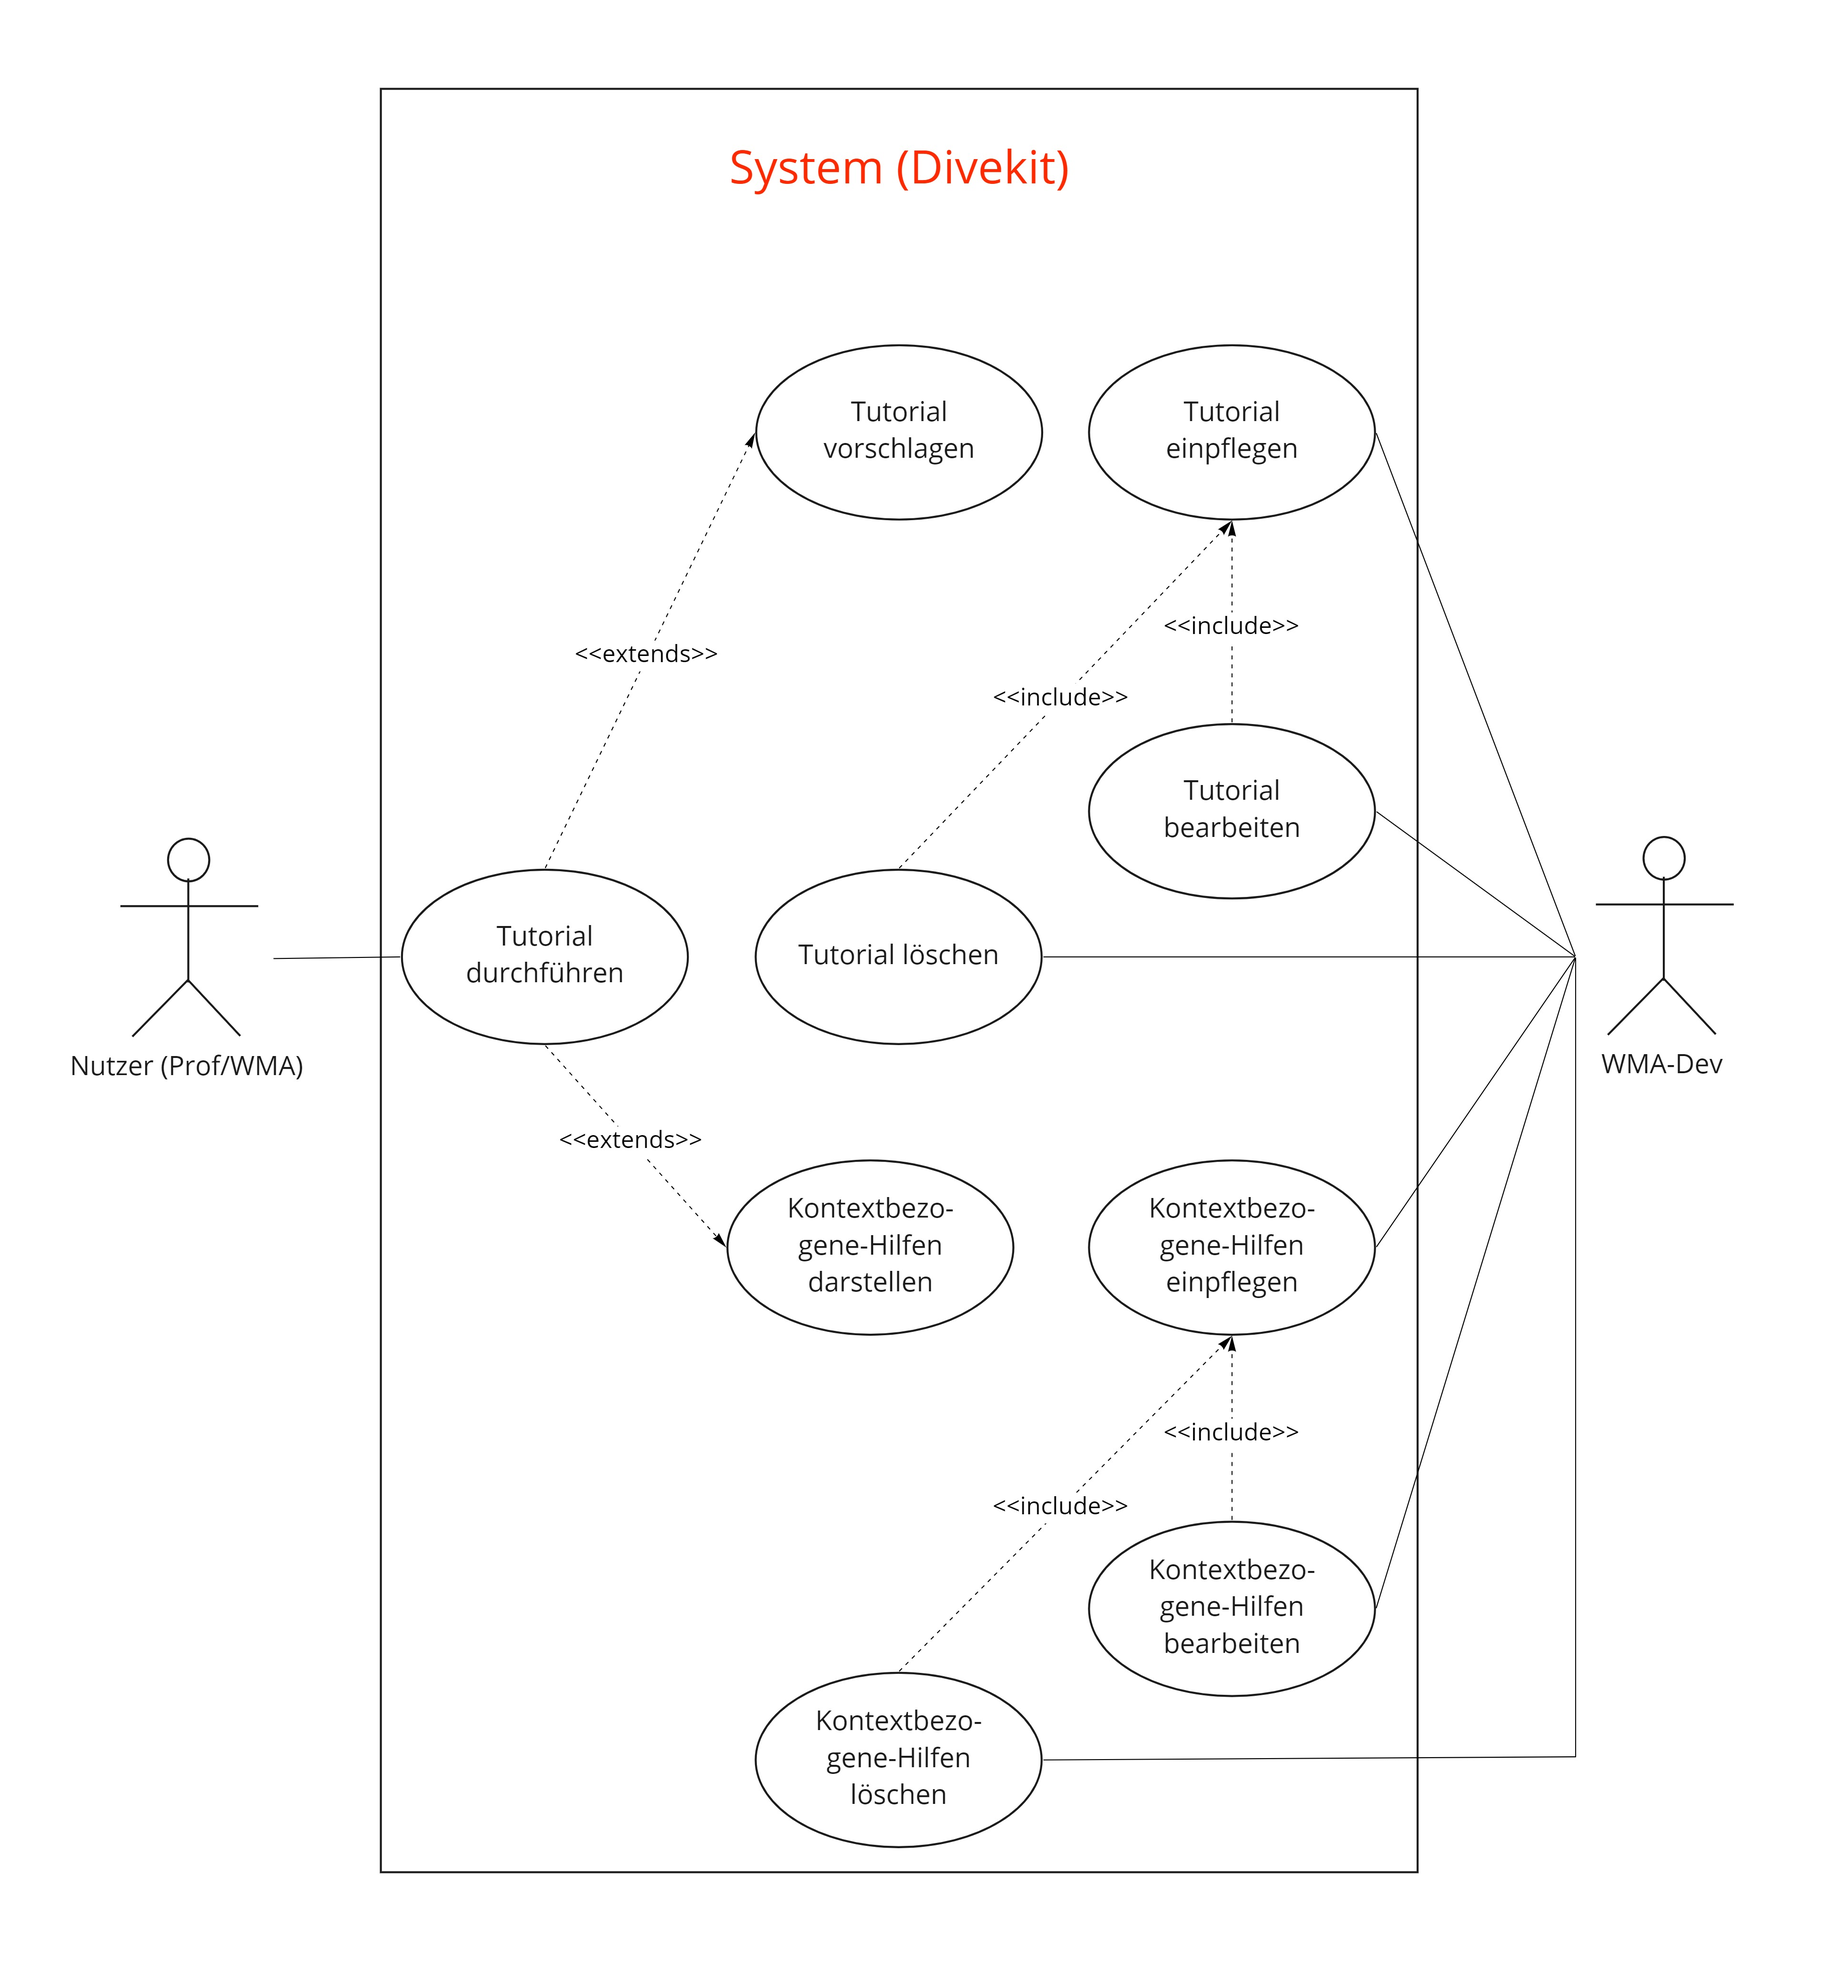
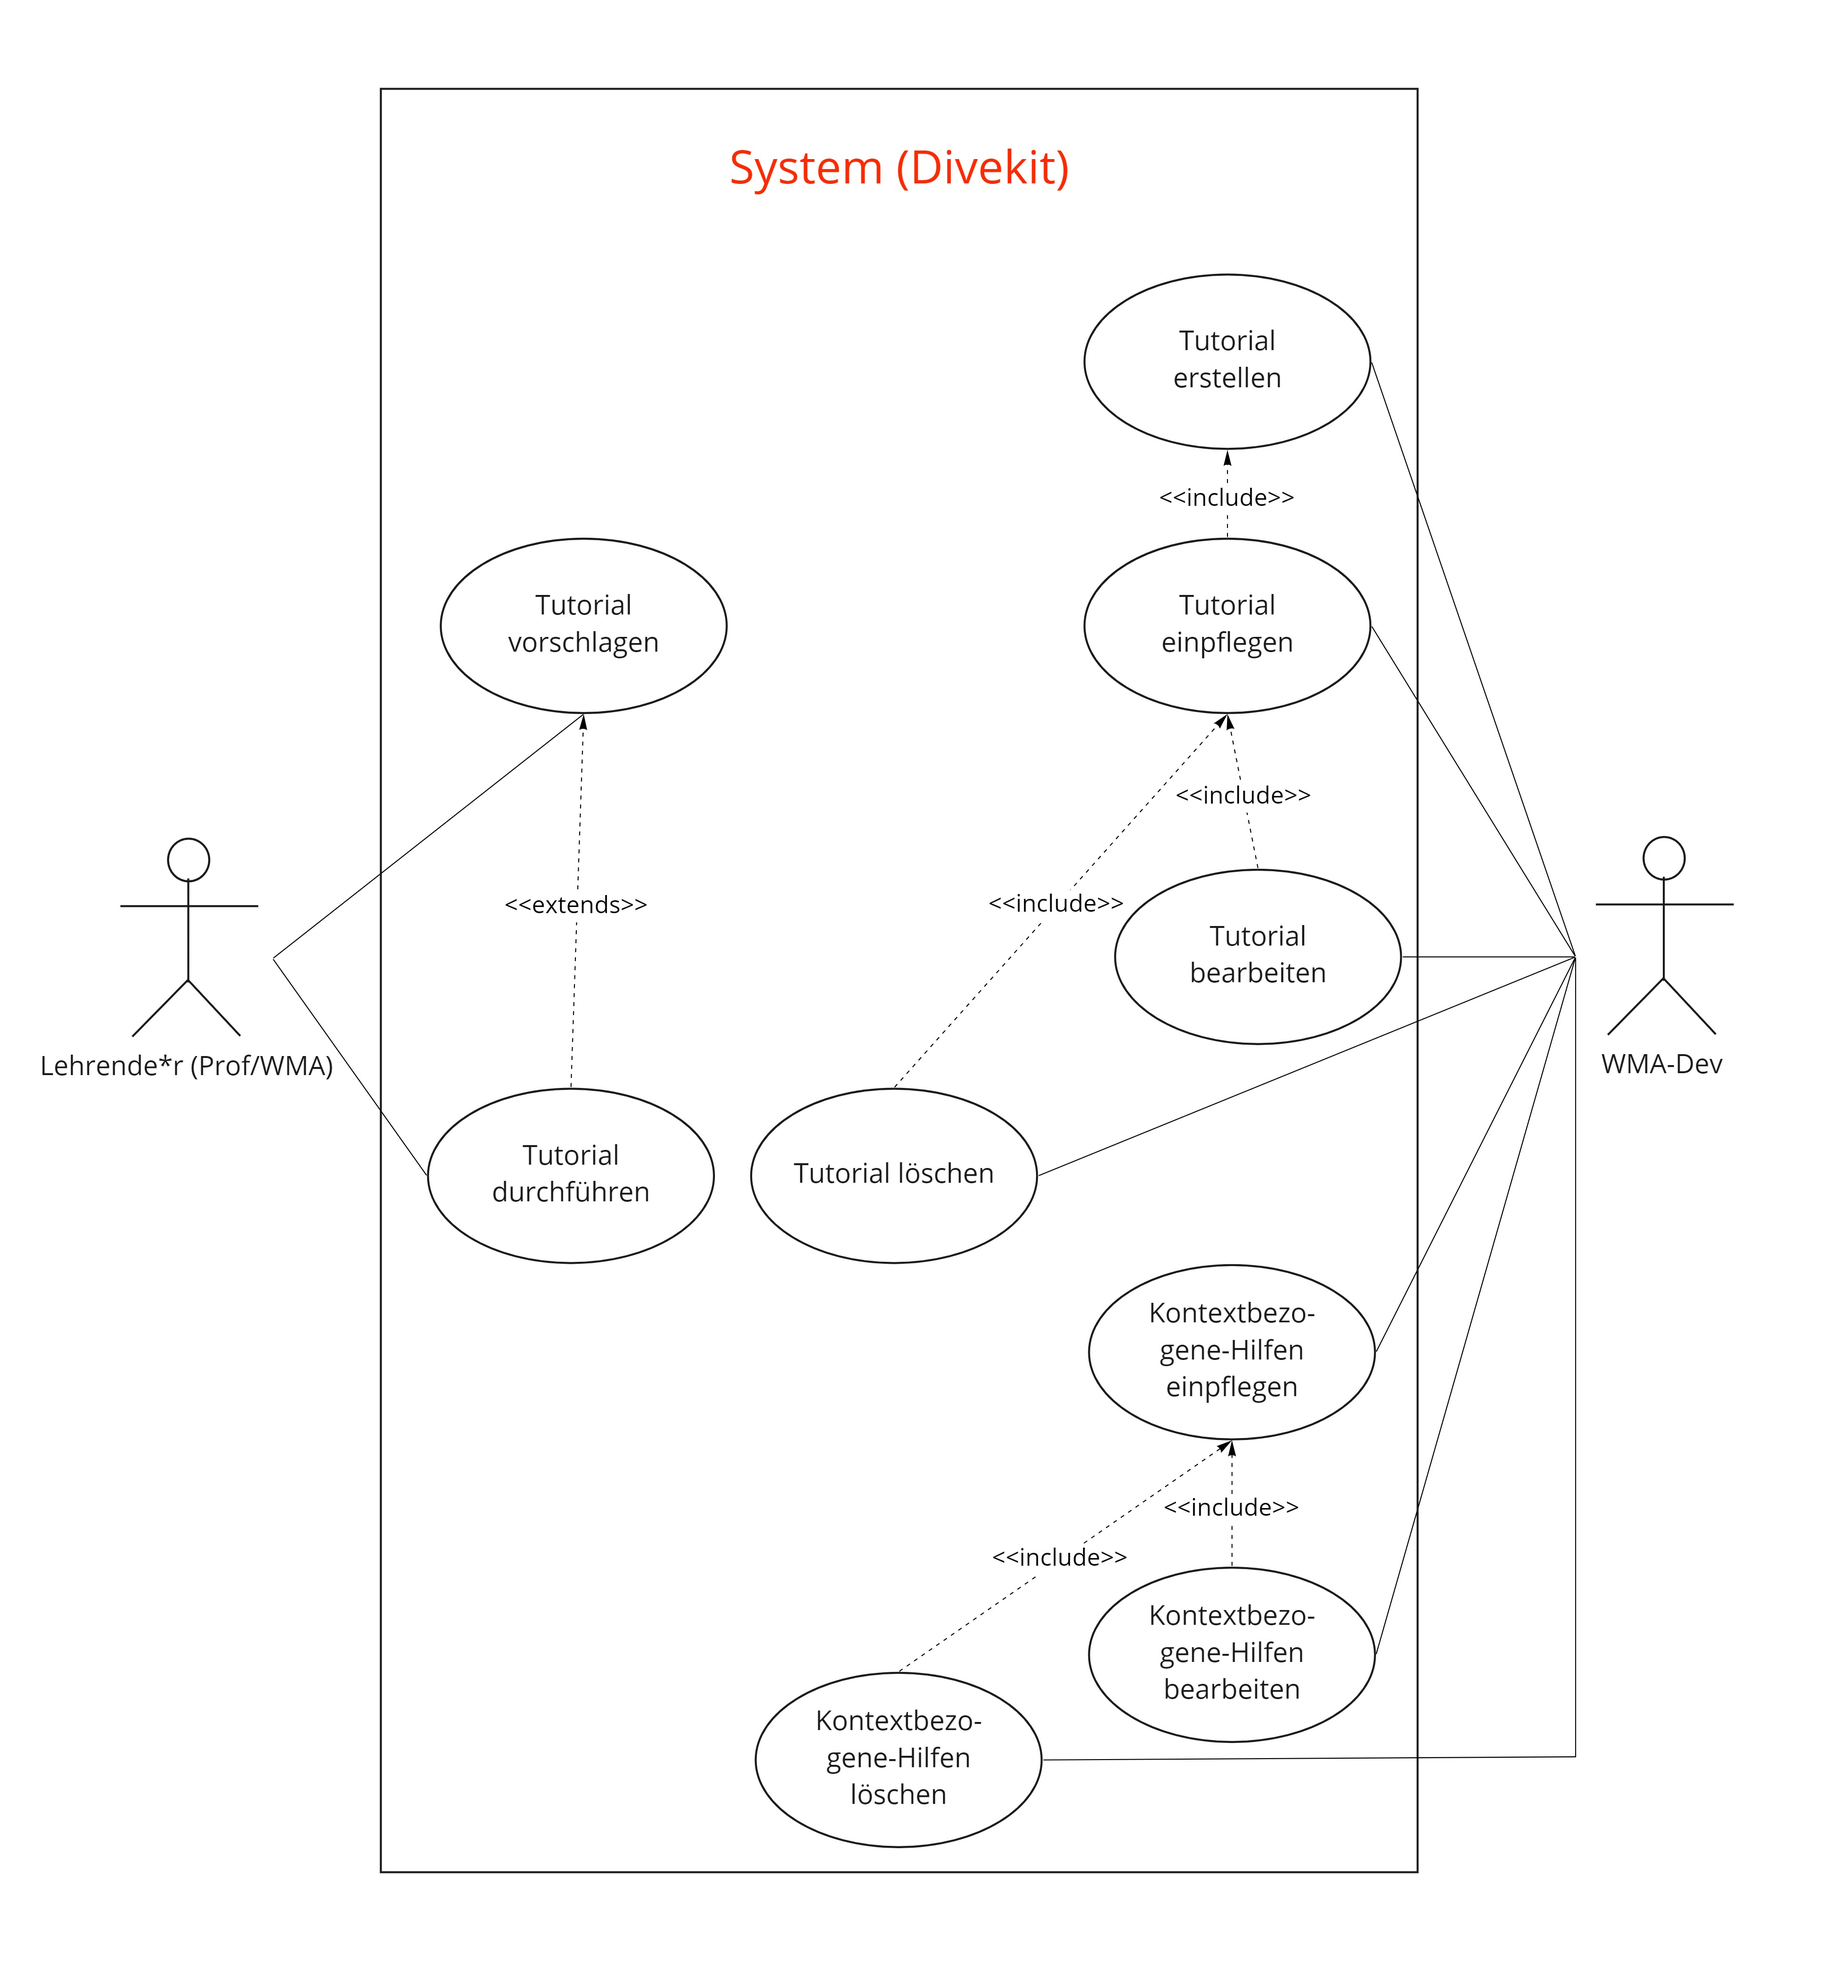
modified use case and use case diagram

diff --git a/_useCases/tutorialVorschlagen.md b/_useCases/tutorialVorschlagen.md
@@ -19,29 +19,29 @@ history:
     v2:
         date: 2021-07-26
         comment: modified Scenarios and Actors regarding review
+    v3:
+        date: 2021-07-29
+        comment: modified Scenarios regarding todos
 todo: 
-    - (sbe) Das Szenario fängt irgendwie mittendrín an
-    - (sbe) bitte formulieren Sie eindeutig - was genau heisst "Das System registriert einen Nutzer, ..."
-    - (sbe) zwischen 2 und 3 fehlt ein Schritt (Auswahl des Videos, ...) 
-    - (sbe) Wäre dann der 4. Schritt nicht, dass Nutzer beim nächsten Einloggen das Tutorial überspringt?
-    - (sbe) Ausnahme "3a) Das Tutorial für die Funktion ist veraltet" müsste mit 3b nummeriert sein, 
 ---
 
 
 ## Hauptszenario
 
-* 1) Das System registriert einen Nutzer, der die Funktion noch nicht genutzt hat
-* 2) Auf der geöffneten Seite werden Tutorial-Vorschläge eingeblendet
-* 3) Nutzer sieht sieht sich ein eingeblendetes Tutorial-Video an
+* 1) Nutzer registriert sich im System und öffnet eine Seite
+* 2) Das System erkennt, dass dieser Teil des Systems noch nicht genutzt wurde
+* 3) Auf der geöffneten Seite werden Tutorial-Vorschläge eingeblendet
+* 4) Nutzer wählt ein Tutorial-Video aus
+* 5) Nutzer sieht sieht sich ein eingeblendetes Tutorial-Video an
 
 ## Alternativszenario
 
-* 3a) Der Nutzer kennt sich bereits mit dem System aus und klickt die Tutorial-Vorschläge weg
+* 4a) Der Nutzer kennt sich bereits mit dem System aus und klickt die Tutorial-Vorschläge weg
 
 ## Ausnahmeszenario 
 
-* 2a) Es existiert kein Tutorial für diese Funktion
-* 3a) Das Tutorial für die Funktion ist veraltet
-* 4) Das Tutorial hat dem Nutzer nicht weitergeholfen, weil die Schritte nicht nachvollziehbar sind
+* 3a) Es existiert kein Tutorial für diese Funktion
+* 5a) Das Tutorial für die Funktion ist veraltet
+* 6) Das Tutorial hat dem Nutzer nicht weitergeholfen, weil die Schritte nicht nachvollziehbar sind
 
 **Andere Nachbedingung**: Der Nutzer ist **nicht** mit der Nutzung vertraut.

diff --git a/_useCaseDiagrams/schnellerLernprozess.md b/_useCaseDiagrams/schnellerLernprozess.md
@@ -6,11 +6,11 @@ responsible:
 title: Use Case Diagram Schneller Lernprozess
 functionalRequirement: SchnellerLernprozess
 useCases:
+    - Tutorial erstellen
     - Tutorial einpflegen
     - Tutorial bearbeiten
     - Tutorial löschen
     - Tutorial durchführen
-    - Kontextbezogene-Hilfen darstellen
     - Kontextbezogene-Hilfen einpflegen
     - Kontextbezogene-Hilfen bearbeiten
     - Kontextbezogene-Hilfen löschen
@@ -24,13 +24,10 @@ history:
     v2:
         date: 2021-07-27
         comment: modified diagram and use cases regarding review
+    v3:
+        date: 2021-07-29
+        comment: modified diagram and use cases regarding todos
 todo:
-    - (sbe) Nutzer ist "Lehrende*r"
-    - (sbe) Nutzer muss auch mit Tutorial vorschlagen verbunden sein (ihr wird das ja vorgeschlagen, primary Actor!)
-    - (sbe) ist Kontextbezogene-Hilfen darstellen wirklich ein eigenständiger UC? 
-    - (sbe) Wenn ja, wäre das nicht eine include- statt extends-Beziehung (von Tutorial durchführen)?
-    - (sbe) "Tutorial erstellen" fehlt, oder? War das nicht ein Video?
-    - (sbe) sonst gut!
 ---
 
 ## Beschreibung
